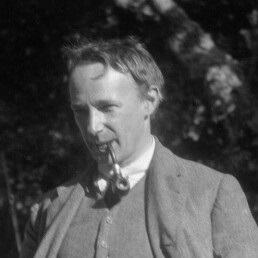
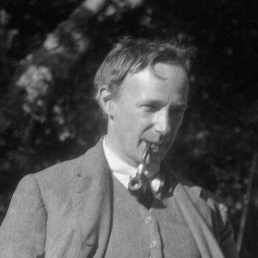
feat: reverse phil image when they are opposing

diff --git a/src/scenes/BattleStart.ts b/src/scenes/BattleStart.ts
@@ -30,7 +30,20 @@ export class BattleStart implements GameScene {
 
             this.drawPlatform(x2 + (w2 / 2), y2 + h2, w * .8, h * .2);
             this.ctx.clearRect(x2, y2, w2, h2);
+        
+            // Save the context state
+            this.ctx.save(); 
+            
+            // Move to the center of the image, scale it negatively on x axis, then move it back
+            this.ctx.translate(x2 + w2 / 2, 0); 
+            this.ctx.scale(-1, 1);
+            this.ctx.translate(-(x2 + w2 / 2), 0);
+            
+            // Draw the mirrored image
             this.ctx.drawImage(image, x2, y2, w2, h2);
+            
+            // Restore the context to the previous state
+            this.ctx.restore(); 
         }
     }
 
@@ -42,8 +55,6 @@ export class BattleStart implements GameScene {
         this.ctx.fill();
         this.ctx.closePath();
     }
-
-
 
     getNextState(): MenuType | null {
         throw new Error('Method not implemented.');

diff --git a/dist/scenes/BattleStart.js b/dist/scenes/BattleStart.js
@@ -23,7 +23,16 @@ export class BattleStart {
             let image = this.phil2.getIcon();
             this.drawPlatform(x2 + (w2 / 2), y2 + h2, w * .8, h * .2);
             this.ctx.clearRect(x2, y2, w2, h2);
+            // Save the context state
+            this.ctx.save();
+            // Move to the center of the image, scale it negatively on x axis, then move it back
+            this.ctx.translate(x2 + w2 / 2, 0);
+            this.ctx.scale(-1, 1);
+            this.ctx.translate(-(x2 + w2 / 2), 0);
+            // Draw the mirrored image
             this.ctx.drawImage(image, x2, y2, w2, h2);
+            // Restore the context to the previous state
+            this.ctx.restore();
         }
     }
     drawPlatform(x, y, radiusX, radiusY) {
